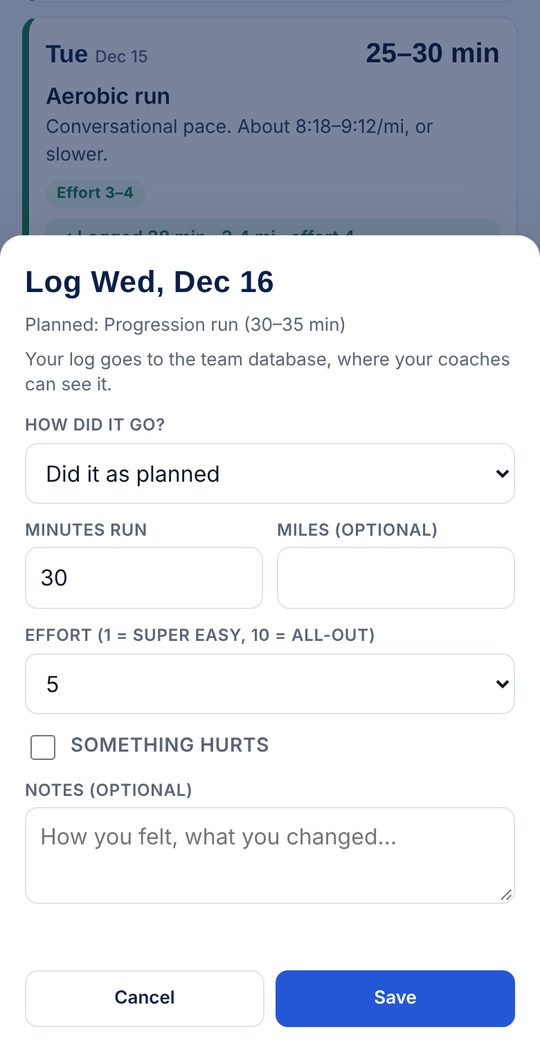
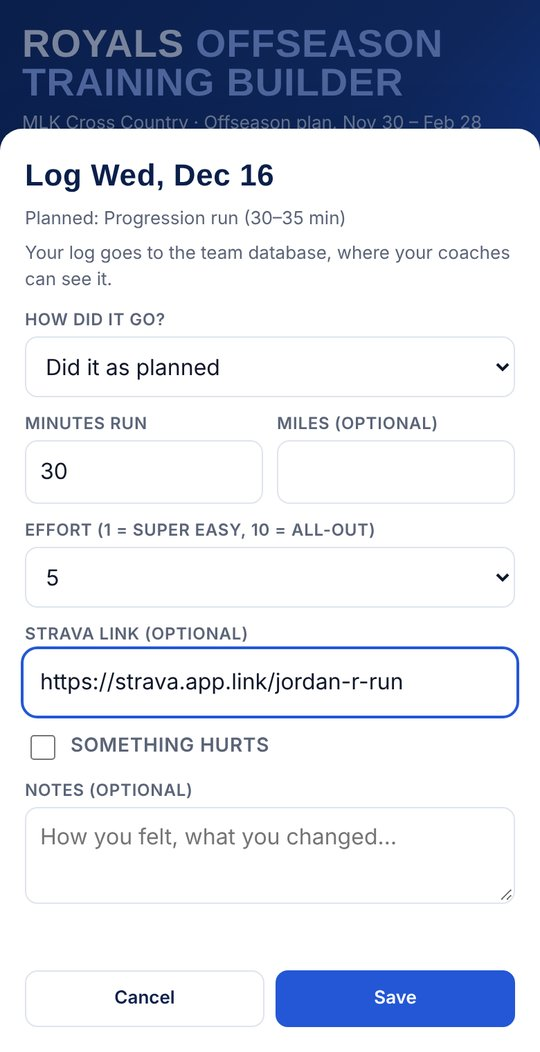
Training info page: mention optional Strava link; new log screenshot
Claude-Session: https://claude.ai/code/session_01SX9ku3SQHhmWNATwFzY8CV

diff --git a/offseason-training.html b/offseason-training.html
@@ -284,10 +284,11 @@ const SEARCH_INDEX = [
         </div>
       </li>
       <li class="tr-step">
-        <img src="training/screens/4-log-a-run.jpg" alt="Log a run form with minutes, miles, effort and notes" loading="lazy" width="540" height="1052">
+        <img src="training/screens/4-log-a-run.jpg" alt="Log a run form with minutes, miles, effort, Strava link and notes" loading="lazy" width="540" height="1052">
         <div>
           <h3>Log every run</h3>
           <p>After you run, tap <b>Log it</b> and enter your minutes, effort, and how it went. Your logs go to a team database your coaches can see.</p>
+          <p>Use Strava? You can paste a link to your run too (optional). In Strava, open the run, tap <b>Share</b>, then <b>Copy link</b>, and paste it in the <b>Strava link</b> box.</p>
           <p>If something hurts, check the box <b>and</b> tell a coach in person.</p>
         </div>
       </li>
